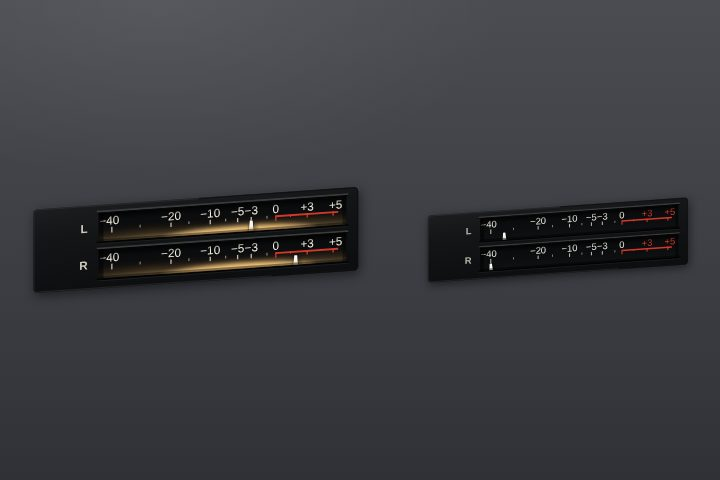
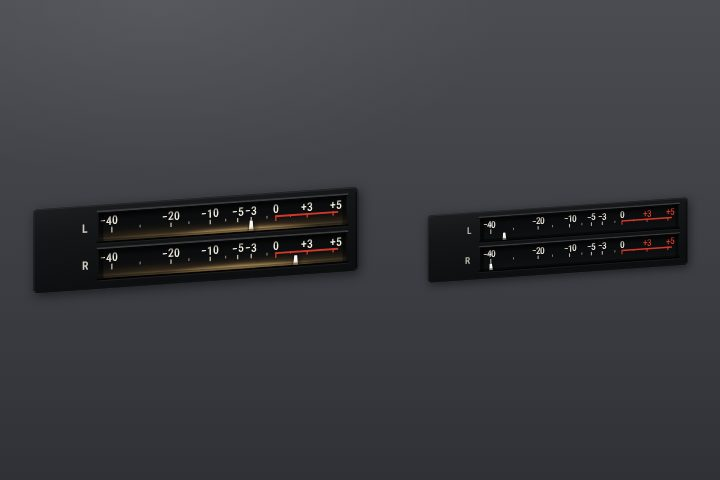
zankyo controls: build snapshot (dev-only)
Claude-Session: https://claude.ai/code/session_01HtkzWwXGAhnCfpdAxyNomu

diff --git a/art/zankyo/controls/controls/dotmatrix-hdsp-jx8p-patch-name.html b/art/zankyo/controls/controls/dotmatrix-hdsp-jx8p-patch-name.html
@@ -94,9 +94,9 @@
 
   var CSS = `
     :host { display: inline-block; position: relative; font-size: 10px; line-height: 1;
-      --lit: url(#ledR); --off: #2a0b09; --win: #180404; --pkg: #120909; --wash: #7a0d05; }
+      --lit: url(#ledR); --off: #2a0b09; --win: #140303; --pkg: #1c0a09; --wash: #7a0d05; }
     :host([hidden]) { display: none; }
-    :host([colour="green"]) { --lit: url(#ledG); --off: #07270f; --win: #04130a; --pkg: #05180c; --wash: #0a6a22; }
+    :host([colour="green"]) { --lit: url(#ledG); --off: #07270f; --win: #031008; --pkg: #07200e; --wash: #0a6a22; }
     :host([colour="amber"]) { --lit: url(#ledA); --off: #2c1905; --win: #160d02; --pkg: #130c03; --wash: #7a4a02; }
     .wrap { position: absolute; left: 0; top: 0; transform-origin: 0 0; }
     svg { display: block; overflow: visible; }
@@ -181,9 +181,9 @@
         '<linearGradient id="pan" x1="0" y1="0" x2="0.25" y2="1">' +
           '<stop offset="0" stop-color="#2a2a2a"/><stop offset="0.35" stop-color="#1a1a1a"/><stop offset="1" stop-color="#101010"/></linearGradient>' +
         '<radialGradient id="ledR" cx="36%" cy="32%" r="66%">' +
-          '<stop offset="0" stop-color="#ffd0c2"/><stop offset="0.3" stop-color="#ff6a44"/><stop offset="0.6" stop-color="#ff2a12"/><stop offset="1" stop-color="#cf0d04"/></radialGradient>' +
+          '<stop offset="0" stop-color="#ffd0c2"/><stop offset="0.3" stop-color="#ff6a44"/><stop offset="0.62" stop-color="#ff2a12"/><stop offset="1" stop-color="#e21206"/></radialGradient>' +
         '<radialGradient id="ledG" cx="36%" cy="32%" r="66%">' +
-          '<stop offset="0" stop-color="#e2ffd4"/><stop offset="0.3" stop-color="#84ff86"/><stop offset="0.6" stop-color="#2ae84a"/><stop offset="1" stop-color="#0a9c22"/></radialGradient>' +
+          '<stop offset="0" stop-color="#e2ffd4"/><stop offset="0.3" stop-color="#84ff86"/><stop offset="0.62" stop-color="#2ae84a"/><stop offset="1" stop-color="#0cb828"/></radialGradient>' +
         '<radialGradient id="ledA" cx="36%" cy="32%" r="66%">' +
           '<stop offset="0" stop-color="#fff0d2"/><stop offset="0.3" stop-color="#ffc45a"/><stop offset="0.6" stop-color="#ff9e14"/><stop offset="1" stop-color="#c86402"/></radialGradient>' +
         '<linearGradient id="refl" x1="0" y1="0" x2="0.6" y2="1">' +
@@ -191,7 +191,7 @@
         '<linearGradient id="winedge" x1="0" y1="0" x2="0.3" y2="1">' +
           '<stop offset="0" stop-color="#000"/><stop offset="0.5" stop-color="#050505"/><stop offset="1" stop-color="#3a3a3a"/></linearGradient>' +
         '<filter id="bloom" x="-3%" y="-45%" width="106%" height="190%">' +
-          '<feGaussianBlur in="SourceGraphic" stdDeviation="1.5" result="b"/>' +
+          '<feGaussianBlur in="SourceGraphic" stdDeviation="1.7" result="b"/>' +
           '<feMerge><feMergeNode in="b"/><feMergeNode in="b"/><feMergeNode in="SourceGraphic"/></feMerge></filter>' +
         '<filter id="soft" x="-30%" y="-60%" width="160%" height="220%"><feGaussianBlur stdDeviation="3"/></filter>' +
         '<clipPath id="win"><rect x="' + BORD + '" y="' + TOP + '" width="' + WW + '" height="' + WH + '" rx="2"/></clipPath>' +
@@ -207,7 +207,7 @@
         '<rect x="' + BORD + '" y="' + TOP + '" width="' + WW + '" height="' + WH + '" fill="var(--win)"/>' +
         '<g>' + pkgs + '</g>' +
         '<g class="dots" filter="url(#bloom)">' + dots + '</g>' +
-        '<rect x="' + BORD + '" y="' + TOP + '" width="' + WW + '" height="' + WH + '" fill="var(--wash)" opacity="0.30"/>' +
+        '<rect x="' + BORD + '" y="' + TOP + '" width="' + WW + '" height="' + WH + '" fill="var(--wash)" opacity="0.19"/>' +
         /* the filter window is glass: one broad diagonal reflection, not the shape of the text */
         '<path d="M ' + BORD + ' ' + TOP + ' L ' + (BORD + WW * 0.42) + ' ' + TOP + ' L ' + (BORD + WW * 0.10) + ' ' + (TOP + WH) + ' L ' + BORD + ' ' + (TOP + WH) + ' Z" fill="url(#refl)"/>' +
         '<path d="M ' + (BORD + WW * 0.63) + ' ' + TOP + ' L ' + (BORD + WW * 0.70) + ' ' + TOP + ' L ' + (BORD + WW * 0.47) + ' ' + (TOP + WH) + ' L ' + (BORD + WW * 0.40) + ' ' + (TOP + WH) + ' Z" fill="#fff" opacity="0.035"/>' +

diff --git a/art/zankyo/controls/controls/tape-counter-revox-a77.html b/art/zankyo/controls/controls/tape-counter-revox-a77.html
@@ -326,7 +326,7 @@
         const back = Math.sin(this._rs * Math.PI) * 0.12;              // a touch of overshoot on the way to zero
         pos = this._from.map(d => Math.max(0, d * (1 - e) - back));
       } else pos = this._drumPos();
-      for (let k = 0; k < N; k++) {
+      for (let k = 0; k < this._wheels.length; k++) {
         const p = Math.max(0, pos[k] || 0);
         const fl = Math.floor(p), r = p - fl, d = fl % 10;
         const slots = this._wheels[k];
